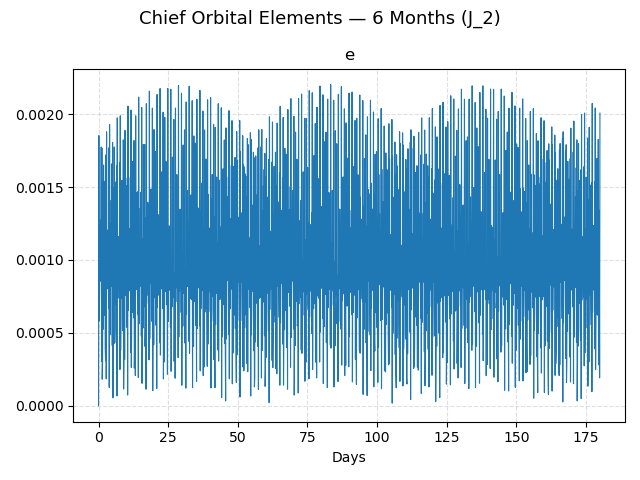
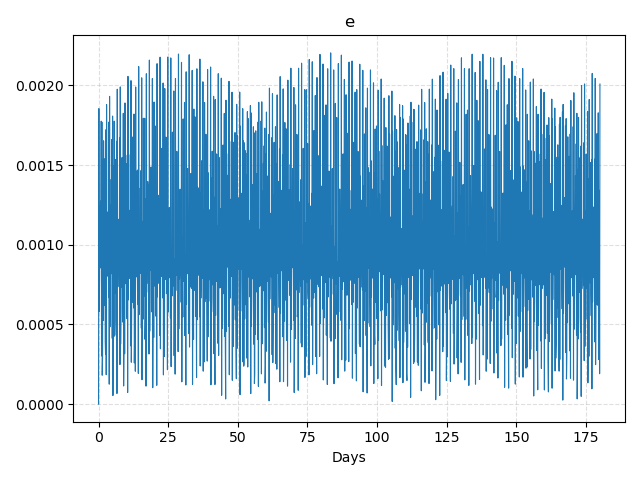
updated figures

diff --git a/term_project/src/plotting.py b/term_project/src/plotting.py
@@ -23,7 +23,6 @@ def plot_orbital_elements(days_long, a_l, e_l, i_l, raan_l, argp_l, M_l, path):
         ax.set_title(title)
         ax.set_xlabel("Days")
         ax.grid(True, linestyle='--', alpha=0.4)
-        plt.suptitle("Chief Orbital Elements — 6 Months (J_2)", fontsize=13)
         plt.tight_layout()
         savefig(f"{path}/{title}.png")
 
